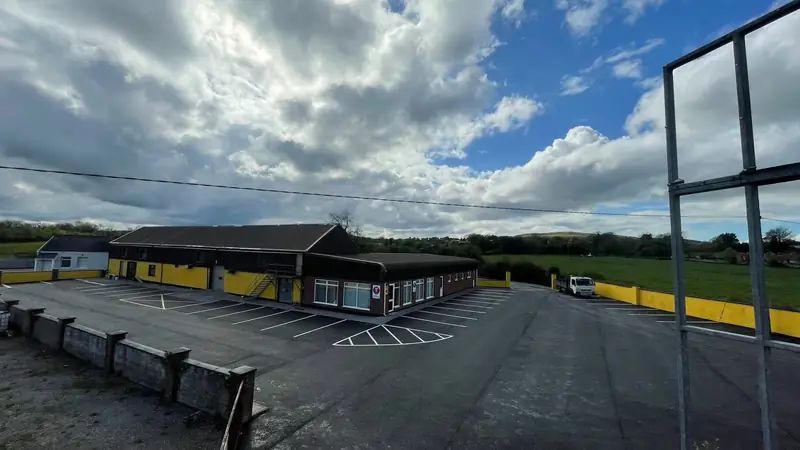
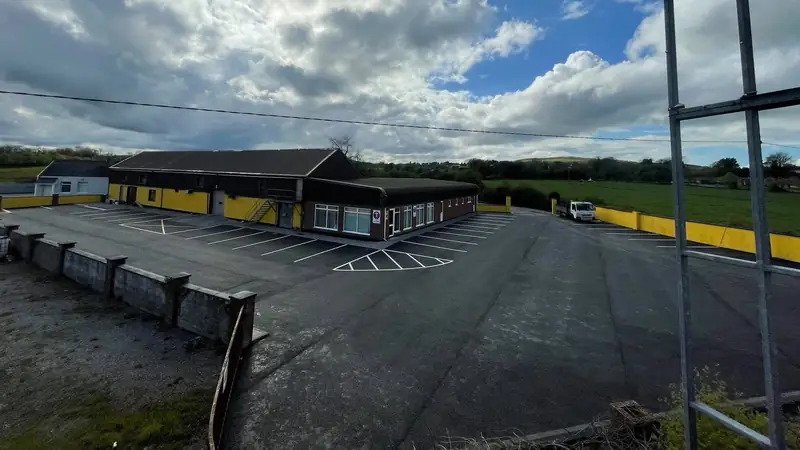
Rebuild the home page hero
Three measured problems with the first version:

1. The photograph was 58% sky with the horizon at 52% of the frame, so the top
   half of the tallest element on the site was empty grey cloud and the premises
   was squeezed into the bottom third behind the scrim. Re-cropped from the
   1560x1170 original with the horizon at 35% (_build/recrop_hero.py finds it by
   pixel analysis rather than a hand-guessed offset). Now 48% sky, and the yard,
   units and van actually read.

2. There was no phone number in the hero. The headline is "One call", the
   business runs 24/7 emergency call-outs, and the Google Ads spend goes to a
   calls campaign — but the only CTA was "Request a quote", so the highest-intent
   visitor had to open the menu to find the number. Call now leads in gold, quote
   follows as a ghost button.

3. Nothing reduced risk before the click. "SCROLL" occupied the spot where proof
   belongs; replaced with free site visit / itemised quote, no obligation / 24/7
   emergency call-outs. Added a "Limerick & Kerry" eyebrow so local relevance
   registers before the headline is read.

Also: hero__inner top padding tightened, and a 1200w step added between 800 and
1600 so mid-size viewports stop pulling the 1600w file.

Contrast re-measured against the new crop, worst pixel in the text band:
h1 7.86:1, meta 6.76:1, proof 6.97:1, gold-soft eyebrow 4.80:1 — all AA body.
Mobile median of 5: Perf 97, A11y 100, BP 100, SEO 100, LCP 2.26s, TBT 127ms,
[…]

diff --git a/greenway-v2/index.html b/greenway-v2/index.html
@@ -64,10 +64,10 @@
   <section class="hero media on-dark" data-hero>
     <picture class="media__poster">
       <source type="image/webp"
-              srcset="media/hero-loop-800.webp 800w, media/hero-loop-1600.webp 1600w"
+              srcset="media/hero-loop-800.webp 800w, media/hero-loop-1200.webp 1200w, media/hero-loop-1600.webp 1600w"
               sizes="100vw">
-      <img src="media/hero-loop-1600.jpg"
-           srcset="media/hero-loop-800.jpg 800w, media/hero-loop-1600.jpg 1600w"
+      <img src="media/hero-loop-1200.jpg"
+           srcset="media/hero-loop-800.jpg 800w, media/hero-loop-1200.jpg 1200w, media/hero-loop-1600.jpg 1600w"
            sizes="100vw" alt="" width="1600" height="900"
            fetchpriority="high" decoding="async">
     </picture>
@@ -81,13 +81,19 @@
     <div class="media__scrim"></div>
 
     <div class="shell hero__inner">
+      <p class="hero__eyebrow">Limerick &amp; Kerry</p>
       <h1 class="hero__title">One call.<br>Every trade.</h1>
       <p class="hero__meta">Property maintenance, repairs and grounds care for homes
         and businesses across Limerick and Kerry.</p>
       <div class="hero__actions">
-        <a class="btn btn--gold" href="contact.html">Request a quote</a>
+        <a class="btn btn--gold" href="tel:+353830301799">Call 083 030 1799</a>
+        <a class="btn btn--ghost" href="contact.html">Request a quote</a>
       </div>
-      <p class="hero__scroll">Scroll</p>
+      <ul class="hero__proof">
+        <li>Free site visit</li>
+        <li>Itemised quote, no obligation</li>
+        <li>24/7 emergency call-outs</li>
+      </ul>
     </div>
   </section>
 

diff --git a/greenway-v2/css/app.css b/greenway-v2/css/app.css
@@ -937,3 +937,51 @@ h1, h2, h3, h4 {
 .hero .hero__scroll { color: #fff; }
 .pagehead.media .pagehead__lede,
 .hero .hero__meta { color: rgba(255, 255, 255, .9); }
+
+/* ============================================================== hero, v2
+   The first version left 37% of the hero empty above the headline and offered
+   a single CTA with no phone number — on a site whose headline is "One call"
+   and whose ad spend goes to a calls campaign. */
+
+/* Content sits lower than centre but no longer leaves a dead top third. */
+.hero__inner { padding-block: clamp(7rem, 14vh, 9rem) clamp(3rem, 7vh, 4.5rem); }
+
+.hero__eyebrow {
+  font-size: var(--t-micro);
+  font-weight: 600;
+  letter-spacing: .2em;
+  text-transform: uppercase;
+  color: var(--gold-soft);
+  margin-bottom: 1.1rem;
+}
+
+.hero__meta { margin-top: 1.3rem; }
+
+/* Two co-equal CTAs: the caller and the planner. Auto-width on desktop so a
+   single button never stretches the full column. */
+.hero__actions .btn { flex: 0 1 auto; }
+
+.hero__proof {
+  list-style: none;
+  padding: 0;
+  margin-top: clamp(1.6rem, 4vh, 2.4rem);
+  display: flex;
+  flex-wrap: wrap;
+  gap: .5rem 1.6rem;
+  font-size: var(--t-small);
+  color: rgba(255, 255, 255, .92);
+}
+.hero__proof li { display: flex; align-items: baseline; gap: .55rem; }
+.hero__proof li::before {
+  content: '';
+  flex: 0 0 5px;
+  width: 5px; height: 5px;
+  background: var(--gold);
+  border-radius: 50%;
+}
+
+@media (max-width: 760px) {
+  /* Full-width stacked buttons stay, but the call button leads. */
+  .hero__actions .btn { flex: 1 1 100%; }
+  .hero__proof { gap: .45rem 1.1rem; }
+}

diff --git a/greenway-v2/_build/recrop_hero.py b/greenway-v2/_build/recrop_hero.py
@@ -1,0 +1,66 @@
+#!/usr/bin/env python3
+"""
+Re-crop the hero photograph.
+
+The shipped hero was 58% sky with the horizon at 52% of the frame, so the top
+half of the tallest, most valuable element on the site was empty grey cloud and
+the premises itself was squeezed into the bottom third behind the scrim.
+
+This crops from the 1560x1170 original with the horizon pushed up to ~30%, so
+the yard, the building and the van fill the frame. Sky is kept as a band, not
+as the subject.
+"""
+import os
+import numpy as np
+from PIL import Image
+
+os.chdir(os.path.join(os.path.dirname(os.path.abspath(__file__)), ".."))
+
+SRC = "images/building.jpg"
+OUT = "hero-loop"
+RATIO = 16 / 9
+HORIZON_AT = 0.30          # where the horizon should sit in the finished frame
+WIDTHS = (800, 1200, 1600)
+
+im = Image.open(SRC).convert("RGB")
+w, h = im.size
+
+# Find the horizon in the source: first row where sky-like pixels drop below 40%.
+a = np.asarray(im, float)
+mx, mn = a.max(2), a.min(2)
+sat = np.where(mx > 0, (mx - mn) / np.maximum(mx, 1), 0)
+sky = (a[..., 2] >= a[..., 0]) & (mx > 70) & (sat < 0.45)
+rows = sky.mean(1)
+horizon = next((y for y in range(h) if rows[y] < .4), h // 2)
+print("  source %dx%d, horizon at y=%d (%.0f%% down)" % (w, h, horizon, horizon / h * 100))
+
+# Tallest 16:9 crop the source allows.
+crop_h = min(h, int(w / RATIO))
+crop_w = int(crop_h * RATIO)
+
+# Place the crop so the horizon lands at HORIZON_AT, clamped to the image.
+top = int(horizon - crop_h * HORIZON_AT)
+top = max(0, min(top, h - crop_h))
+left = (w - crop_w) // 2
+im = im.crop((left, top, left + crop_w, top + crop_h))
+print("  crop %dx%d at (%d,%d) -> horizon now %.0f%% down"
+      % (crop_w, crop_h, left, top, (horizon - top) / crop_h * 100))
+
+total = 0
+for width in WIDTHS:
+    r = im.resize((width, int(width / RATIO)), Image.LANCZOS)
+    # The 800w WebP is the LCP on mobile; keep it under 35 KB.
+    for ext, kw in (("webp", dict(quality=70 if width == 800 else (62 if width == 1200 else 56), method=6)),
+                    ("jpg", dict(quality=70, optimize=True, progressive=True))):
+        p = "media/%s-%d.%s" % (OUT, width, ext)
+        r.save(p, **kw)
+        total += os.path.getsize(p)
+        print("  %-30s %6.1f KB" % (os.path.basename(p), os.path.getsize(p) / 1024))
+print("  %.0f KB total" % (total / 1024))
+
+# Confirm the result.
+a = np.asarray(Image.open("media/%s-1600.jpg" % OUT).convert("RGB"), float)
+mx, mn = a.max(2), a.min(2)
+sat = np.where(mx > 0, (mx - mn) / np.maximum(mx, 1), 0)
+sky = (a[..., 2] >= a[..., 0]) & (mx > 70) & (sat < 0.45)
+print("  finished frame: %.0f%% sky (was 58%%)" % (sky.mean() * 100))
